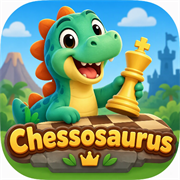
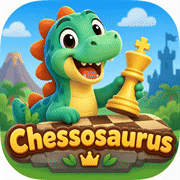
SEO changes agreed by the council, and accurate privacy wording
Council (Gemini, Perplexity, ChatGPT, Claude), 18 Nov 2026:
- Shorter titles and descriptions on every page (home, grown-ups, help); four new Help answers (age, real chess,
  adverts and purchases, US and Canada "planned at launch"), mirrored in the FAQPage data.
- No content counts on the site (owner's rule for YouTube and social media, applied here on the council's advice).
- "Amazon Appstore for Fire tablets"; Triceratops level "Steady" (no club-strength claim).
- Structured data: no PreOrder, @id, sameAs to the social profiles, VideoObject for the tour, company details.
- Open Graph and Twitter tags on every page; 192 px icon, favicon.ico and a static site.webmanifest; sitemap dates;
  meta keywords removed; 404 links.
- Video posters as WebP (1.07 MB -> 0.45 MB); smaller 180 px icon.
Privacy and For grown-ups: "nothing is sent to us unless a grown-up chooses to send an error report"; two-device play
and Google Play's payment code explained.

diff --git a/index.html b/index.html
@@ -4,22 +4,26 @@
 <meta charset="utf-8">
 <meta name="viewport" content="width=device-width, initial-scale=1">
 <meta name="color-scheme" content="only light">
-<title>Chessosaurus: real chess with friendly dinosaurs for ages 6 to 12, and traditional pieces for older players</title>
-<meta name="description" content="Chessosaurus is an Android chess and learning app: friendly dinosaurs teach real chess to children aged 6 to 12, with traditional pieces and stronger opponents for older children and grown-ups. 150 puzzles, 21 learning games, in many languages. Pay once. No ads, no accounts, no tracking.">
+<title>Chessosaurus: dinosaur chess app for kids aged 6 to 12</title>
+<meta name="description" content="Real chess for children aged 6 to 12, taught by friendly dinosaurs: short lessons, a Hint arrow and dinosaur opponents. Pay once. No ads, no chat, no tracking.">
 <link rel="canonical" href="https://www.chessosaurus.com/">
-<meta property="og:title" content="Chessosaurus: real chess with friendly dinosaurs, and traditional pieces for older players">
+<meta property="og:title" content="Chessosaurus: real chess with friendly dinosaurs, for ages 6 to 12">
 <meta property="og:description" content="Dinosaurs teach real chess to ages 6 to 12; traditional pieces and tougher opponents for those a little older. Pay once. No ads, no accounts, no tracking.">
 <meta property="og:image" content="https://www.chessosaurus.com/img/share.jpg">
 <meta property="og:url" content="https://www.chessosaurus.com/">
-<meta name="keywords" content="chess for kids, chess app for children, learn chess for beginners, dinosaur chess, chess puzzles for kids, educational games for children, language learning games for kids, maths games, no ads app for kids, offline games for children, Android, Amazon Fire tablet">
+<meta property="og:image:width" content="1024">
+<meta property="og:image:height" content="500">
+<meta property="og:image:alt" content="The Chessosaurus icon: a smiling green dinosaur holding a golden chess king">
 <meta property="og:type" content="website">
 <meta property="og:site_name" content="Chessosaurus">
 <meta property="og:locale" content="en_GB">
 <meta name="twitter:card" content="summary_large_image">
-<script type="application/ld+json">{"@context":"https://schema.org","@graph":[{"@type":"Organization","@id":"https://www.chessosaurus.com/#maker","name":"Cumbernauld Software Solutions Ltd","url":"https://cumbernauldsoftwaresolutions.com/"},{"@type":"WebSite","@id":"https://www.chessosaurus.com/#site","url":"https://www.chessosaurus.com/","name":"Chessosaurus","inLanguage":"en-GB","publisher":{"@id":"https://www.chessosaurus.com/#maker"}},{"@type":["MobileApplication","VideoGame"],"name":"Chessosaurus","url":"https://www.chessosaurus.com/","description":"A chess and learning app for children aged 6 to 12: real chess taught by friendly dinosaurs, 150 puzzles and 21 learning games in many languages. No adverts, no accounts, no chat and no tracking.","operatingSystem":"Android","applicationCategory":"EducationalApplication","genre":["Chess","Educational game"],"image":"https://www.chessosaurus.com/img/share.jpg","screenshot":["https://www.chessosaurus.com/video/clip-game.jpg","https://www.chessosaurus.com/video/clip-hint.jpg","https://www.chessosaurus.com/img/shot-board3d-classic.jpg"],"inLanguage":["en","es","fr","de","it","pt","nl","pl","sv","zh-Hans","ja","ko"],"audience":{"@type":"PeopleAudience","suggestedMinAge":6,"suggestedMaxAge":12},"isFamilyFriendly":true,"offers":[{"@type":"Offer","price":"1.99","priceCurrency":"GBP","availability":"https://schema.org/PreOrder"},{"@type":"Offer","price":"2.99","priceCurrency":"USD","availability":"https://schema.org/PreOrder"},{"@type":"Offer","price":"3.50","priceCurrency":"CAD","availability":"https://schema.org/PreOrder"}],"author":{"@id":"https://www.chessosaurus.com/#maker"}}]}</script>
+<script type="application/ld+json">{"@context":"https://schema.org","@graph":[{"@type":"Organization","@id":"https://www.chessosaurus.com/#maker","name":"Cumbernauld Software Solutions Ltd","url":"https://cumbernauldsoftwaresolutions.com/","address":{"@type":"PostalAddress","streetAddress":"26 Wellesley Drive","addressLocality":"Cumbernauld","postalCode":"G68 9PG","addressCountry":"GB"},"identifier":{"@type":"PropertyValue","propertyID":"Companies House company number","value":"SC717373"}},{"@type":"WebSite","@id":"https://www.chessosaurus.com/#site","url":"https://www.chessosaurus.com/","name":"Chessosaurus","inLanguage":"en-GB","publisher":{"@id":"https://www.chessosaurus.com/#maker"},"about":{"@id":"https://www.chessosaurus.com/#app"}},{"@type":["MobileApplication","VideoGame"],"@id":"https://www.chessosaurus.com/#app","name":"Chessosaurus","url":"https://www.chessosaurus.com/","description":"A chess and learning app for children aged 6 to 12, with traditional pieces and stronger opponents for older players: real chess taught by friendly dinosaurs, with short lessons, a Hint arrow, dinosaur opponents, chess puzzles, learning games and a quiz in two languages at once. No adverts, no accounts, no chat and no tracking.","operatingSystem":"Android 8.0 or later; Fire OS 7 or later","gamePlatform":["Android phones and tablets","Amazon Fire tablets"],"applicationCategory":"EducationalApplication","applicationSubCategory":"Chess","genre":["Chess","Educational game"],"image":"https://www.chessosaurus.com/img/share.jpg","screenshot":["https://www.chessosaurus.com/video/clip-game.jpg","https://www.chessosaurus.com/video/clip-hint.jpg","https://www.chessosaurus.com/img/shot-board3d-classic.jpg"],"video":{"@id":"https://www.chessosaurus.com/#tour"},"inLanguage":["en","es","fr","de","it","pt","nl","pl","sv","zh-Hans","ja","ko"],"audience":{"@type":"PeopleAudience","suggestedMinAge":6,"suggestedMaxAge":12},"isFamilyFriendly":true,"countryOfOrigin":{"@type":"Country","name":"United Kingdom"},"offers":[{"@type":"Offer","price":"1.99","priceCurrency":"GBP","eligibleRegion":"GB"},{"@type":"Offer","price":"2.99","priceCurrency":"USD","eligibleRegion":"US"},{"@type":"Offer","price":"3.50","priceCurrency":"CAD","eligibleRegion":"CA"}],"author":{"@id":"https://www.chessosaurus.com/#maker"},"publisher":{"@id":"https://www.chessosaurus.com/#maker"},"sameAs":["https://www.youtube.com/@chessosaurusapp","https://www.facebook.com/chessosaurusapp","https://www.instagram.com/chessosaurusapp/","https://x.com/chessosaurusapp","https://www.tiktok.com/@chessosaurus"]},{"@type":"VideoObject","@id":"https://www.chessosaurus.com/#tour","name":"Chessosaurus: the two-minute tour","description":"A real game, the first lesson, Hint, the dino quiz in two languages, Dino games and the grown-up check, all recorded from the Chessosaurus app.","thumbnailUrl":"https://www.chessosaurus.com/video/tour.jpg","uploadDate":"2026-11-18T12:00:00+00:00","duration":"PT1M57S","contentUrl":"https://www.chessosaurus.com/video/tour.mp4","inLanguage":"en-GB","isFamilyFriendly":true,"publisher":{"@id":"https://www.chessosaurus.com/#maker"}}]}</script>
 <meta name="theme-color" content="#2e5a1e">
-<link rel="icon" href="img/icon-32.png" sizes="32x32">
-<link rel="apple-touch-icon" href="img/icon-180.png">
+<link rel="icon" href="/favicon.ico" sizes="48x48">
+<link rel="icon" href="/img/icon-192.png" type="image/png" sizes="192x192">
+<link rel="apple-touch-icon" href="/img/icon-180.png">
+<link rel="manifest" href="/site.webmanifest">
 <link rel="stylesheet" href="style.css">
 </head>
 <body>
@@ -43,7 +47,7 @@
     <div class="wrap">
       <div>
         <h1>Real chess with friendly dinosaurs, for ages 6 to 12.</h1>
-        <p class="lead">Short lessons, a Hint arrow and seven dinosaur opponents teach the real game, step by step. Plus 21 learning games and a quiz in two languages at once.</p>
+        <p class="lead">Short lessons, a Hint arrow and dinosaur opponents teach the real game, step by step. Plus lots of learning games and a quiz in two languages at once.</p>
         <ul class="ticks" aria-label="Safe by design">
           <li>No adverts</li>
           <li>No chat</li>
@@ -53,7 +57,7 @@
         <p class="price-flash"><strong>Pay once: £1.99 · US$2.99 · C$3.50.<br>Play as much as you like.</strong> No subscription and nothing more to buy. Free for 3 days on Google Play.</p>
         <p class="price-other">Other countries: Google Play and Amazon show the price in your own money.</p>
         <div class="launch">
-          <p class="soon"><strong>Coming soon</strong> to Google Play and the Amazon Appstore: Android phones and tablets first, then iPhone and iPad.</p>
+          <p class="soon"><strong>Coming soon</strong> to Google Play and the Amazon Appstore for Fire tablets: Android phones and tablets first, then iPhone and iPad.</p>
           <p class="launch-news">Not out yet. To hear when it is, follow Chessosaurus on <a href="https://www.youtube.com/@chessosaurusapp" rel="noopener noreferrer">YouTube</a> or <a href="https://www.facebook.com/chessosaurusapp" rel="noopener noreferrer">Facebook</a>. We'll post there on launch day.</p>
         </div>
         <div class="hero-cta"><a class="btn" href="#tour-title">▶ Watch the two-minute tour</a></div>
@@ -68,7 +72,7 @@
     <div class="wrap tour">
       <h2 id="tour-title">Take the two-minute tour</h2>
       <figure class="tour-video">
-        <video controls preload="none" playsinline poster="video/tour.jpg" width="1280" height="720" aria-describedby="tour-cap">
+        <video controls preload="none" playsinline poster="video/tour.webp" width="1280" height="720" aria-describedby="tour-cap">
           <source src="video/tour.mp4" type="video/mp4">
         </video>
         <figcaption id="tour-cap"><strong>The two-minute tour</strong> A real game, the first lesson, Hint, the dino quiz in two languages, Dino games and the grown-up check, all from the real app. 1 min 57 s, with sound (about 8 MB).</figcaption>
@@ -86,7 +90,7 @@
       </div>
       <figure class="frame clip">
         <div class="clip-box">
-          <video src="video/clip-hint.mp4" poster="video/clip-hint.jpg" width="540" height="1200" muted loop playsinline preload="none" data-clip aria-describedby="cap-hint"></video>
+          <video src="video/clip-hint.mp4" poster="video/clip-hint.webp" width="540" height="1200" muted loop playsinline preload="none" data-clip aria-describedby="cap-hint"></video>
           <button class="video-toggle" type="button" aria-label="Pause this clip" hidden>❚❚</button>
         </div>
         <figcaption id="cap-hint"><strong>Stuck? Tap Hint</strong> An arrow shows a good move, and the child still makes the move themselves.</figcaption>
@@ -101,14 +105,14 @@
       <div class="pair">
         <figure class="frame clip">
         <div class="clip-box">
-          <video src="video/clip-game.mp4" poster="video/clip-game.jpg" width="540" height="1200" muted loop playsinline preload="none" data-clip aria-describedby="cap-game"></video>
+          <video src="video/clip-game.mp4" poster="video/clip-game.webp" width="540" height="1200" muted loop playsinline preload="none" data-clip aria-describedby="cap-game"></video>
           <button class="video-toggle" type="button" aria-label="Pause this clip" hidden>❚❚</button>
         </div>
         <figcaption id="cap-game"><strong>A real game, three looks</strong> Dinosaur pieces in 2D and 3D, then traditional pieces on a marble board under a night sky, with kind words along the way.</figcaption>
       </figure>
         <figure class="frame clip">
         <div class="clip-box">
-          <video src="video/clip-lesson.mp4" poster="video/clip-lesson.jpg" width="540" height="1200" muted loop playsinline preload="none" data-clip aria-describedby="cap-lesson"></video>
+          <video src="video/clip-lesson.mp4" poster="video/clip-lesson.webp" width="540" height="1200" muted loop playsinline preload="none" data-clip aria-describedby="cap-lesson"></video>
           <button class="video-toggle" type="button" aria-label="Pause this clip" hidden>❚❚</button>
         </div>
         <figcaption id="cap-lesson"><strong>Lessons that show the way</strong> The first lesson: glowing squares show where the Hatchling Pawn can go.</figcaption>
@@ -122,12 +126,12 @@
       <div class="feature-text">
         <h2 id="path-title">From a first move to a tricky puzzle</h2>
         <p class="intro"><strong>The Dino trail</strong> gives a beginner a clear next step: learn a piece, play a little game with it, collect stars, move on.</p>
-        <p class="intro"><strong>150 chess puzzles</strong> give focused practice once the moves are known.</p>
-        <p class="intro"><strong>Seven dinosaurs to beat.</strong> Each computer level is a character, not a number, from the Baby Dino who plays almost at random up to the T. Rex.</p>
+        <p class="intro"><strong>Chess puzzles</strong> give focused practice once the moves are known.</p>
+        <p class="intro"><strong>Dinosaurs to beat.</strong> Each computer level is a character, not a number, from the Baby Dino who plays almost at random up to the T. Rex.</p>
       </div>
       <figure class="frame clip">
         <div class="clip-box">
-          <video src="video/clip-trail.mp4" poster="video/clip-trail.jpg" width="540" height="1200" muted loop playsinline preload="none" data-clip aria-describedby="cap-trail"></video>
+          <video src="video/clip-trail.mp4" poster="video/clip-trail.webp" width="540" height="1200" muted loop playsinline preload="none" data-clip aria-describedby="cap-trail"></video>
           <button class="video-toggle" type="button" aria-label="Pause this clip" hidden>❚❚</button>
         </div>
         <figcaption id="cap-trail"><strong>The Dino trail</strong> Learn a piece, play with it, collect stars, unlock the next dinosaur.</figcaption>
@@ -139,12 +143,12 @@
     <div class="wrap feature">
       <div class="feature-text">
         <h2 id="games-title">Chess is just the beginning</h2>
-        <p class="intro">21 learning games on picture tiles: languages, maths, dino science, memory and chess skills. There are no timers and no rush, and every round earns stars.</p>
+        <p class="intro">Lots of learning games on picture tiles: languages, maths, dino science, memory and chess skills. There are no timers and no rush, and every round earns stars.</p>
         <p class="intro">A dino quiz follows the child. It starts gently and adjusts as they answer, and no level or score is ever shown to compare.</p>
       </div>
       <figure class="frame clip">
         <div class="clip-box">
-          <video src="video/clip-games.mp4" poster="video/clip-games.jpg" width="540" height="1200" muted loop playsinline preload="none" data-clip aria-describedby="cap-games"></video>
+          <video src="video/clip-games.mp4" poster="video/clip-games.webp" width="540" height="1200" muted loop playsinline preload="none" data-clip aria-describedby="cap-games"></video>
           <button class="video-toggle" type="button" aria-label="Pause this clip" hidden>❚❚</button>
         </div>
         <figcaption id="cap-games"><strong>Dino games</strong> Languages, maths, science, memory and chess skills on picture tiles, with no timers.</figcaption>
@@ -162,7 +166,7 @@
       </div>
       <figure class="frame clip">
         <div class="clip-box">
-          <video src="video/clip-quiz.mp4" poster="video/clip-quiz.jpg" width="540" height="1200" muted loop playsinline preload="none" data-clip aria-describedby="cap-quiz"></video>
+          <video src="video/clip-quiz.mp4" poster="video/clip-quiz.webp" width="540" height="1200" muted loop playsinline preload="none" data-clip aria-describedby="cap-quiz"></video>
           <button class="video-toggle" type="button" aria-label="Pause this clip" hidden>❚❚</button>
         </div>
         <figcaption id="cap-quiz"><strong>Two languages at once</strong> A quiz question in English and a second language, then the answer and a fun fact in both.</figcaption>
@@ -174,12 +178,12 @@
     <div class="wrap feature">
       <div class="feature-text">
         <h2 id="progress-title">Celebrate progress, at your child’s pace</h2>
-        <p class="intro">The Trophy room has 45 stickers to earn for things like finishing a lesson, solving puzzles and trying a new game.</p>
+        <p class="intro">The Trophy room has stickers to earn for things like finishing a lesson, solving puzzles and trying a new game.</p>
         <p class="intro">There are no streaks, countdowns or daily reminders. Nothing is lost by putting the tablet down.</p>
       </div>
       <figure class="frame clip">
         <div class="clip-box">
-          <video src="video/clip-trophies.mp4" poster="video/clip-trophies.jpg" width="540" height="1200" muted loop playsinline preload="none" data-clip aria-describedby="cap-trophies"></video>
+          <video src="video/clip-trophies.mp4" poster="video/clip-trophies.webp" width="540" height="1200" muted loop playsinline preload="none" data-clip aria-describedby="cap-trophies"></video>
           <button class="video-toggle" type="button" aria-label="Pause this clip" hidden>❚❚</button>
         </div>
         <figcaption id="cap-trophies"><strong>The Trophy room</strong> Stickers to earn at a child’s own pace, with no streaks or countdowns.</figcaption>
@@ -196,7 +200,7 @@
       </div>
       <figure class="frame clip">
         <div class="clip-box">
-          <video src="video/clip-board3d.mp4" poster="video/clip-board3d.jpg" width="540" height="1200" muted loop playsinline preload="none" data-clip aria-describedby="cap-board3d"></video>
+          <video src="video/clip-board3d.mp4" poster="video/clip-board3d.webp" width="540" height="1200" muted loop playsinline preload="none" data-clip aria-describedby="cap-board3d"></video>
           <button class="video-toggle" type="button" aria-label="Pause this clip" hidden>❚❚</button>
         </div>
         <figcaption id="cap-board3d"><strong>A board to turn in 3D</strong> Drag to turn the board and see the dinosaurs from any side.</figcaption>
@@ -216,9 +220,9 @@
 
   <section class="alt" aria-labelledby="ladder-title">
     <div class="wrap">
-      <h2 id="ladder-title">Seven dinosaurs to beat</h2>
+      <h2 id="ladder-title">Dinosaurs to beat</h2>
       <p class="intro">Each computer level is a dinosaur. Children see who they are playing, not a number, and move up when they are ready.</p>
-      <p class="intro"><strong>Not just for little ones.</strong> The first three are gentle teachers for beginners. From Triceratops upwards the dinosaurs play proper chess: a real challenge for older children, teenagers and grown-ups, on the dinosaur board or with traditional pieces.</p>
+      <p class="intro"><strong>Not just for little ones.</strong> The first few are gentle teachers for beginners. From Triceratops upwards the dinosaurs play proper chess: a real challenge for older children, teenagers and grown-ups, on the dinosaur board or with traditional pieces.</p>
       <ol class="levels">
         <li class="level">
           <p class="suits">First games, ages 6 and up</p>
@@ -248,9 +252,9 @@
           <p class="suits">Older children and grown-ups</p>
           <img class="level-art" src="img/level-4-rook.webp" alt="" width="120" height="120" loading="lazy">
           <h3>Triceratops</h3>
-          <p class="level-word">Club</p>
+          <p class="level-word">Steady</p>
           <span class="steps" role="img" aria-label="Level 4 of 7"><i class="on"></i><i class="on"></i><i class="on"></i><i class="on"></i><i></i><i></i><i></i></span>
-          <p>Steady and careful, like a good club player.</p>
+          <p>Steady and careful: a real test once the basics are learned.</p>
         </li>
         <li class="level grown">
           <p class="suits">Older children and grown-ups</p>
@@ -307,7 +311,7 @@
       <img src="img/icon-180.png" alt="" width="96" height="96" loading="lazy">
       <h2 id="close-title">Pay once. Play as much as you like.</h2>
       <p class="intro">£1.99, once in the UK. US$2.99 in the United States and C$3.50 in Canada. No subscription, no adverts and nothing more to buy inside. On Google Play your family can try everything free for 3 days; after that, a grown-up decides. On the Amazon Appstore it is bought once before download, with no trial. Children never see a price or a buy button. In other countries, Google Play and Amazon show the price in your own money.</p>
-      <p class="soon centre"><strong>Coming soon</strong> to Google Play and the Amazon Appstore. To hear on launch day, follow us on <a href="https://www.youtube.com/@chessosaurusapp" rel="noopener noreferrer">YouTube</a> or <a href="https://www.facebook.com/chessosaurusapp" rel="noopener noreferrer">Facebook</a>.</p>
+      <p class="soon centre"><strong>Coming soon</strong> to Google Play and the Amazon Appstore for Fire tablets. To hear on launch day, follow us on <a href="https://www.youtube.com/@chessosaurusapp" rel="noopener noreferrer">YouTube</a> or <a href="https://www.facebook.com/chessosaurusapp" rel="noopener noreferrer">Facebook</a>.</p>
     </div>
   </section>
 

diff --git a/help.html b/help.html
@@ -4,14 +4,27 @@
 <meta charset="utf-8">
 <meta name="viewport" content="width=device-width, initial-scale=1">
 <meta name="color-scheme" content="only light">
-<title>Help and contact · Chessosaurus</title>
-<meta name="description" content="Answers to common questions about Chessosaurus, and how to contact us.">
+<title>Help and FAQ: price, Fire tablets, refunds · Chessosaurus</title>
+<meta name="description" content="Answers for parents: price, Android and Fire tablets, refunds, offline play, reading aloud and playing on two devices. Plus how to contact us.">
 <link rel="canonical" href="https://www.chessosaurus.com/help.html">
+<meta property="og:type" content="website">
+<meta property="og:site_name" content="Chessosaurus">
+<meta property="og:locale" content="en_GB">
+<meta property="og:title" content="Chessosaurus help and FAQ">
+<meta property="og:description" content="Price, Android and Fire tablets, refunds, offline play and how to contact us.">
+<meta property="og:url" content="https://www.chessosaurus.com/help.html">
+<meta property="og:image" content="https://www.chessosaurus.com/img/share.jpg">
+<meta property="og:image:width" content="1024">
+<meta property="og:image:height" content="500">
+<meta property="og:image:alt" content="The Chessosaurus icon: a smiling green dinosaur holding a golden chess king">
+<meta name="twitter:card" content="summary_large_image">
 <meta name="theme-color" content="#2e5a1e">
-<link rel="icon" href="img/icon-32.png" sizes="32x32">
-<link rel="apple-touch-icon" href="img/icon-180.png">
+<link rel="icon" href="/favicon.ico" sizes="48x48">
+<link rel="icon" href="/img/icon-192.png" type="image/png" sizes="192x192">
+<link rel="apple-touch-icon" href="/img/icon-180.png">
+<link rel="manifest" href="/site.webmanifest">
 <link rel="stylesheet" href="style.css">
-<script type="application/ld+json">{"@context":"https://schema.org","@type":"FAQPage","mainEntity":[{"@type":"Question","name":"When is Chessosaurus out?","acceptedAnswer":{"@type":"Answer","text":"Soon: it is coming to Google Play and the Amazon Appstore. To hear on launch day, follow Chessosaurus on YouTube or Facebook."}},{"@type":"Question","name":"How much is it?","acceptedAnswer":{"@type":"Answer","text":"£1.99 once in the UK (US$2.99 in the United States, C$3.50 in Canada). On Google Play your family can try everything free for 3 days, then a grown-up can unlock it with one payment. On the Amazon Appstore it is bought once before download, with no trial. There is no subscription and nothing else to buy, and children never see a price or a buy button."}},{"@type":"Question","name":"Which phones and tablets does it run on?","acceptedAnswer":{"@type":"Answer","text":"Android phones and tablets with Android 8.0 or later, from Google Play, and Amazon Fire tablets with Fire OS 7 or later, from the Amazon Appstore. iPhone and iPad come next: follow Chessosaurus on YouTube or Facebook to hear when. It is made for children aged 6 to 12, with stronger levels and traditional pieces for older players and grown-ups."}},{"@type":"Question","name":"If we get a new phone or tablet, do we pay again?","acceptedAnswer":{"@type":"Answer","text":"No. On Google Play the unlock belongs to your Google account, so it comes back on a new device. Children's players and progress stay on the old device, to protect their privacy."}},{"@type":"Question","name":"Can I get a refund?","acceptedAnswer":{"@type":"Answer","text":"Purchases on Google Play follow Google Play's refund policy: for the first 48 hours you can ask for a refund in Google Play itself. After that, or for the Amazon Appstore, email us at support@cumbernauldsoftwaresolutions.com and we will help."}},{"@type":"Question","name":"Does my child need to be able to read?","acceptedAnswer":{"@type":"Answer","text":"Not much. Lessons and quiz questions can be read aloud with a speak button, the games use picture tiles, and an easy-to-read font is one tap away (Aa). Younger children may like a grown-up nearby for the first lesson."}},{"@type":"Question","name":"Does it need the internet?","acceptedAnswer":{"@type":"Answer","text":"No. Everything works offline, and the internet setting starts off. The app itself only goes online to send an optional error report, after a grown-up turns that on. On Google Play, the one purchase is handled by Google Play, which needs the internet at that moment."}},{"@type":"Question","name":"How do I change the settings?","acceptedAnswer":{"@type":"Answer","text":"Tap ⚙ Settings at the top of the home screen, or ⚙ above the board. Pressing Done takes you straight back to where you were. Important settings are in the For grown-ups tab."}},{"@type":"Question","name":"How do I make the computer easier or harder?","acceptedAnswer":{"@type":"Answer","text":"Tap New below the board and choose who to play, from the Baby Dino (plays almost at random) up to the T. Rex. The line under “Your move” shows your colour and who you are playing, for example “White · Parasaur”."}},{"@type":"Question","name":"The 3D board is at an awkward angle. How do I fix it?","acceptedAnswer":{"@type":"Answer","text":"Drag to turn the board and pinch to zoom. When it looks right, tap 📌 to save that angle. It is saved for that set of pieces, and ⌖ or a double-tap brings it back."}},{"@type":"Question","name":"How do two children play on two devices?","acceptedAnswer":{"@type":"Answer","text":"Choose Two devices on the play screen. One device shows a code; a grown-up scans it with the other device after the grown-up check. If the option is greyed out with a Wi-Fi-off sign, two-device play has been switched off in For grown-ups."}},{"@type":"Question","name":"Can I stop the quiz between games?","acceptedAnswer":{"@type":"Answer","text":"Yes: switch off “Learning quiz between games” in Settings. It never appears between two-player games."}},{"@type":"Question","name":"Will progress move to a new phone?","acceptedAnswer":{"@type":"Answer","text":"No. To protect children's privacy, players, progress and saved games stay on the device and are not included in backups."}},{"@type":"Question","name":"How do I delete saved games?","acceptedAnswer":{"@type":"Answer","text":"In Settings › For grown-ups, use “Delete all games”. Players and their progress are kept."}}]}</script>
+<script type="application/ld+json">{"@context":"https://schema.org","@type":"FAQPage","mainEntity":[{"@type":"Question","name":"What age is Chessosaurus for?","acceptedAnswer":{"@type":"Answer","text":"It is designed for children aged 6 to 12, and older players are welcome. The Baby Dino, Hatchling and Parasaur introduce chess gently. From Triceratops upwards the dinosaurs play proper chess: a real challenge for older children, teenagers and grown-ups, with dinosaur or traditional pieces."}},{"@type":"Question","name":"Is Chessosaurus real chess?","acceptedAnswer":{"@type":"Answer","text":"Yes. Every piece is a dinosaur character, from the Hatchling Pawns to the T. Rex King, but the rules are the real rules of chess, so everything children learn works on any board."}},{"@type":"Question","name":"Does Chessosaurus have adverts or in-app purchases?","acceptedAnswer":{"@type":"Answer","text":"No adverts, no subscription and nothing more to buy. On Google Play your family can try everything free for 3 days, then a grown-up can unlock it with one payment, behind the grown-up check. On the Amazon Appstore for Fire tablets it is bought once before download. Children never see a price or a buy button."}},{"@type":"Question","name":"Can we get it in the United States or Canada?","acceptedAnswer":{"@type":"Answer","text":"That is the plan at launch: US$2.99 in the United States and C$3.50 in Canada, from Google Play and the Amazon Appstore for Fire tablets. It is made in Scotland, so its English is British English."}},{"@type":"Question","name":"When is Chessosaurus out?","acceptedAnswer":{"@type":"Answer","text":"Soon: it is coming to Google Play and the Amazon Appstore. To hear on launch day, follow Chessosaurus on YouTube or Facebook."}},{"@type":"Question","name":"How much is it?","acceptedAnswer":{"@type":"Answer","text":"£1.99 once in the UK (US$2.99 in the United States, C$3.50 in Canada). On Google Play your family can try everything free for 3 days, then a grown-up can unlock it with one payment. On the Amazon Appstore it is bought once before download, with no trial. There is no subscription and nothing else to buy, and children never see a price or a buy button."}},{"@type":"Question","name":"Which phones and tablets does it run on?","acceptedAnswer":{"@type":"Answer","text":"Android phones and tablets with Android 8.0 or later, from Google Play, and Amazon Fire tablets with Fire OS 7 or later, from the Amazon Appstore. iPhone and iPad come next: follow Chessosaurus on YouTube or Facebook to hear when. It is made for children aged 6 to 12, with stronger levels and traditional pieces for older players and grown-ups."}},{"@type":"Question","name":"If we get a new phone or tablet, do we pay again?","acceptedAnswer":{"@type":"Answer","text":"No. On Google Play the unlock belongs to your Google account, so it comes back on a new device. Children's players and progress stay on the old device, to protect their privacy."}},{"@type":"Question","name":"Can I get a refund?","acceptedAnswer":{"@type":"Answer","text":"Purchases on Google Play follow Google Play's refund policy: for the first 48 hours you can ask for a refund in Google Play itself. After that, or for the Amazon Appstore, email us at support@cumbernauldsoftwaresolutions.com and we will help."}},{"@type":"Question","name":"Does my child need to be able to read?","acceptedAnswer":{"@type":"Answer","text":"Not much. Lessons and quiz questions can be read aloud with a speak button, the games use picture tiles, and an easy-to-read font is one tap away (Aa). Younger children may like a grown-up nearby for the first lesson."}},{"@type":"Question","name":"Does it need the internet?","acceptedAnswer":{"@type":"Answer","text":"No. Everything works offline, and the internet setting starts off. The app itself only goes online to send an optional error report, after a grown-up turns that on. On Google Play, the one purchase is handled by Google Play, which needs the internet at that moment."}},{"@type":"Question","name":"How do I change the settings?","acceptedAnswer":{"@type":"Answer","text":"Tap ⚙ Settings at the top of the home screen, or ⚙ above the board. Pressing Done takes you straight back to where you were. Important settings are in the For grown-ups tab."}},{"@type":"Question","name":"How do I make the computer easier or harder?","acceptedAnswer":{"@type":"Answer","text":"Tap New below the board and choose who to play, from the Baby Dino (plays almost at random) up to the T. Rex. The line under “Your move” shows your colour and who you are playing, for example “White · Parasaur”."}},{"@type":"Question","name":"The 3D board is at an awkward angle. How do I fix it?","acceptedAnswer":{"@type":"Answer","text":"Drag to turn the board and pinch to zoom. When it looks right, tap 📌 to save that angle. It is saved for that set of pieces, and ⌖ or a double-tap brings it back."}},{"@type":"Question","name":"How do two children play on two devices?","acceptedAnswer":{"@type":"Answer","text":"Choose Two devices on the play screen. One device shows a code; a grown-up scans it with the other device after the grown-up check. If the option is greyed out with a Wi-Fi-off sign, two-device play has been switched off in For grown-ups."}},{"@type":"Question","name":"Can I stop the quiz between games?","acceptedAnswer":{"@type":"Answer","text":"Yes: switch off “Learning quiz between games” in Settings. It never appears between two-player games."}},{"@type":"Question","name":"Will progress move to a new phone?","acceptedAnswer":{"@type":"Answer","text":"No. To protect children's privacy, players, progress and saved games stay on the device and are not included in backups."}},{"@type":"Question","name":"How do I delete saved games?","acceptedAnswer":{"@type":"Answer","text":"In Settings › For grown-ups, use “Delete all games”. Players and their progress are kept."}}]}</script>
 </head>
 <body>
 <a class="skip" href="#main">Skip to the main content</a>
@@ -40,6 +53,10 @@
   <section>
     <div class="wrap prose">
       <h2>Common questions</h2>
+      <details><summary>What age is Chessosaurus for?</summary><p>It is designed for children aged 6 to 12, and older players are welcome. The Baby Dino, Hatchling and Parasaur introduce chess gently. From Triceratops upwards the dinosaurs play proper chess: a real challenge for older children, teenagers and grown-ups, with dinosaur or traditional pieces.</p></details>
+      <details><summary>Is Chessosaurus real chess?</summary><p>Yes. Every piece is a dinosaur character, from the Hatchling Pawns to the T. Rex King, but the rules are the real rules of chess, so everything children learn works on any board.</p></details>
+      <details><summary>Does Chessosaurus have adverts or in-app purchases?</summary><p>No adverts, no subscription and nothing more to buy. On Google Play your family can try everything free for 3 days, then a grown-up can unlock it with one payment, behind the <a href="grown-ups.html#check">grown-up check</a>. On the Amazon Appstore for Fire tablets it is bought once before download. Children never see a price or a buy button.</p></details>
+      <details><summary>Can we get it in the United States or Canada?</summary><p>That is the plan at launch: US$2.99 in the United States and C$3.50 in Canada, from Google Play and the Amazon Appstore for Fire tablets. It is made in Scotland, so its English is British English.</p></details>
       <details><summary>When is Chessosaurus out?</summary><p>Soon: it is coming to Google Play and the Amazon Appstore. To hear on launch day, follow Chessosaurus on <a href="https://www.youtube.com/@chessosaurusapp" rel="noopener noreferrer">YouTube</a> or <a href="https://www.facebook.com/chessosaurusapp" rel="noopener noreferrer">Facebook</a>.</p></details>
       <details><summary>How much is it?</summary><p>£1.99 once in the UK (US$2.99 in the United States, C$3.50 in Canada). On Google Play your family can try everything free for 3 days, then a grown-up can unlock it with one payment. On the Amazon Appstore it is bought once before download, with no trial. There is no subscription and nothing else to buy, and children never see a price or a buy button.</p></details>
       <details><summary>Which phones and tablets does it run on?</summary><p>Android phones and tablets with Android 8.0 or later, from Google Play, and Amazon Fire tablets with Fire OS 7 or later, from the Amazon Appstore. iPhone and iPad come next: follow Chessosaurus on YouTube or Facebook to hear when. It is made for children aged 6 to 12, with stronger levels and traditional pieces for older players and grown-ups.</p></details>

diff --git a/grown-ups.html b/grown-ups.html
@@ -4,12 +4,25 @@
 <meta charset="utf-8">
 <meta name="viewport" content="width=device-width, initial-scale=1">
 <meta name="color-scheme" content="only light">
-<title>For grown-ups · Chessosaurus</title>
-<meta name="description" content="A guide for parents and carers: how Chessosaurus keeps children safe, the grown-up check, two-device play, the internet setting and optional error reports.">
+<title>Parents' guide to Chessosaurus: privacy and child safety</title>
+<meta name="description" content="For parents and teachers: the grown-up check, offline play, no accounts, no chat and no adverts. The privacy and safety features built into Chessosaurus.">
 <link rel="canonical" href="https://www.chessosaurus.com/grown-ups.html">
+<meta property="og:type" content="website">
+<meta property="og:site_name" content="Chessosaurus">
+<meta property="og:locale" content="en_GB">
+<meta property="og:title" content="Parents' guide to Chessosaurus: privacy and child safety">
+<meta property="og:description" content="The grown-up check, offline play, no accounts, no chat and no adverts, setting by setting.">
+<meta property="og:url" content="https://www.chessosaurus.com/grown-ups.html">
+<meta property="og:image" content="https://www.chessosaurus.com/img/share.jpg">
+<meta property="og:image:width" content="1024">
+<meta property="og:image:height" content="500">
+<meta property="og:image:alt" content="The Chessosaurus icon: a smiling green dinosaur holding a golden chess king">
+<meta name="twitter:card" content="summary_large_image">
 <meta name="theme-color" content="#2e5a1e">
-<link rel="icon" href="img/icon-32.png" sizes="32x32">
-<link rel="apple-touch-icon" href="img/icon-180.png">
+<link rel="icon" href="/favicon.ico" sizes="48x48">
+<link rel="icon" href="/img/icon-192.png" type="image/png" sizes="192x192">
+<link rel="apple-touch-icon" href="/img/icon-180.png">
+<link rel="manifest" href="/site.webmanifest">
 <link rel="stylesheet" href="style.css">
 </head>
 <body>
@@ -31,8 +44,8 @@
 <main id="main">
   <div class="page-head">
     <div class="wrap">
-      <h1>For grown-ups</h1>
-      <p>Everything a parent, carer or teacher needs to know about Chessosaurus. Thank you: keeping children safe is our top priority.</p>
+      <h1>For grown-ups: privacy, safety and how Chessosaurus works</h1>
+      <p>Everything a parent, carer or teacher needs to know about Chessosaurus, the chess app for ages 6 to 12. Thank you: keeping children safe is our top priority.</p>
     </div>
   </div>
 
@@ -52,7 +65,7 @@
 
       <h2 id="check">The grown-up check</h2>
       <figure class="page-video">
-        <video controls preload="none" playsinline poster="video/grownup-check.jpg" width="1280" height="720" aria-describedby="check-cap">
+        <video controls preload="none" playsinline poster="video/grownup-check.webp" width="1280" height="720" aria-describedby="check-cap">
           <source src="video/grownup-check.mp4" type="video/mp4">
         </video>
         <figcaption id="check-cap"><strong>The grown-up check, in ten seconds</strong> The settings, our promise to families, and the check before the internet can be turned on. 10 seconds, with sound (about 1 MB).</figcaption>
@@ -79,7 +92,7 @@
       </ul>
 
       <h2 id="internet">The internet and error reports</h2>
-      <p>Chessosaurus works fully without the internet, and the internet setting starts <strong>off</strong>. Nothing is sent anywhere unless a grown-up turns it on. (On the Google Play version, Google’s own payment code talks to Google Play; see the <a href="privacy.html">privacy policy</a>.)</p>
+      <p>Chessosaurus works fully without the internet, and the internet setting starts <strong>off</strong>. Nothing is sent to us unless a grown-up turns on error reports. Two other things can use a connection: two-device play sends chess moves between your own two devices over your home Wi-Fi, and on the Google Play version Google’s own payment code talks to Google Play. See the <a href="privacy.html">privacy policy</a>.</p>
       <h3>Error reports: one at a time</h3>
       <p>If something goes wrong in the app, an error report helps us fix it. Reports are off unless a grown-up switches them on, and then <strong>only one report is sent</strong>: the next time something goes wrong, one report goes and error reports switch themselves off again. The app tells you this when you switch them on.</p>
       <p>A report holds the app's name and version, the Android version, the phone model, the language and what went wrong inside the app. It never holds names, contacts, location, photos or anything typed. Reports are deleted after 30 days. While the internet is off, a report waits on the phone and is deleted after 7 days if it can't be sent.</p>

diff --git a/privacy.html b/privacy.html
@@ -7,9 +7,22 @@
 <title>Privacy policy · Chessosaurus</title>
 <meta name="description" content="The Chessosaurus privacy policy. The app collects no personal information. The only thing it can send is one optional error report, switched on by a grown-up.">
 <link rel="canonical" href="https://www.chessosaurus.com/privacy.html">
+<meta property="og:type" content="website">
+<meta property="og:site_name" content="Chessosaurus">
+<meta property="og:locale" content="en_GB">
+<meta property="og:title" content="Chessosaurus privacy policy">
+<meta property="og:description" content="No accounts, no adverts, no analytics and no tracking. The only thing the app can send us is one optional error report.">
+<meta property="og:url" content="https://www.chessosaurus.com/privacy.html">
+<meta property="og:image" content="https://www.chessosaurus.com/img/share.jpg">
+<meta property="og:image:width" content="1024">
+<meta property="og:image:height" content="500">
+<meta property="og:image:alt" content="The Chessosaurus icon: a smiling green dinosaur holding a golden chess king">
+<meta name="twitter:card" content="summary_large_image">
 <meta name="theme-color" content="#2e5a1e">
-<link rel="icon" href="img/icon-32.png" sizes="32x32">
-<link rel="apple-touch-icon" href="img/icon-180.png">
+<link rel="icon" href="/favicon.ico" sizes="48x48">
+<link rel="icon" href="/img/icon-192.png" type="image/png" sizes="192x192">
+<link rel="apple-touch-icon" href="/img/icon-180.png">
+<link rel="manifest" href="/site.webmanifest">
 <link rel="stylesheet" href="style.css">
 </head>
 <body>
@@ -32,13 +45,13 @@
   <div class="page-head">
     <div class="wrap">
       <h1>Privacy policy</h1>
-      <p>Chessosaurus is made for children. It asks for no personal information about you or your child, and nothing leaves the device unless a grown-up chooses to send an error report. Last updated 12 November 2026.</p>
+      <p>Chessosaurus is made for children. It asks for no personal information about you or your child, and nothing is sent to us unless a grown-up chooses to send an error report. Last updated 18 November 2026.</p>
     </div>
   </div>
 
   <section>
     <div class="wrap prose">
-      <div class="note"><strong>In short:</strong> no accounts, no email, no adverts, no analytics and no tracking. Everything your child does stays on the device. The only thing the app can ever send us is one optional error report, and only after a grown-up switches it on. If a grown-up buys the game, the store takes the payment: Google Play or the Amazon Appstore (see below).</div>
+      <div class="note"><strong>In short:</strong> no accounts, no email, no adverts, no analytics and no tracking. Your child’s players, progress and saved games stay on the device. The only thing the app can ever send us is one optional error report, and only after a grown-up switches it on. If two children play on two devices, only the chess moves pass between those two devices, over your home Wi-Fi. If a grown-up buys the game, the store takes the payment: Google Play or the Amazon Appstore (see below).</div>
 
       <h2>Who we are</h2>
       <p>Chessosaurus is made by Cumbernauld Software Solutions Ltd (“we”), a private limited company registered in Scotland, company number SC717373. Registered office: 26 Wellesley Drive, Cumbernauld, Glasgow, G68 9PG, Scotland. For any privacy question, email <a href="mailto:privacy@cumbernauldsoftwaresolutions.com">privacy@cumbernauldsoftwaresolutions.com</a>.</p>

diff --git a/404.html b/404.html
@@ -6,7 +6,7 @@
 <meta name="color-scheme" content="only light">
 <title>Page not found · Chessosaurus</title>
 <meta name="robots" content="noindex">
-<link rel="icon" href="/img/icon-32.png" sizes="32x32">
+<link rel="icon" href="/favicon.ico" sizes="48x48">
 <link rel="stylesheet" href="/style.css">
 </head>
 <body>
@@ -16,6 +16,7 @@
     <h1>Oops, this page went extinct!</h1>
     <p>The page you were looking for isn't here.</p>
     <a class="btn" href="/">Back to Chessosaurus</a>
+    <p class="not-found-links"><a href="/grown-ups.html">For grown-ups</a> · <a href="/help.html">Help and FAQ</a> · <a href="/privacy.html">Privacy</a></p>
   </div>
 </main>
 </body>
